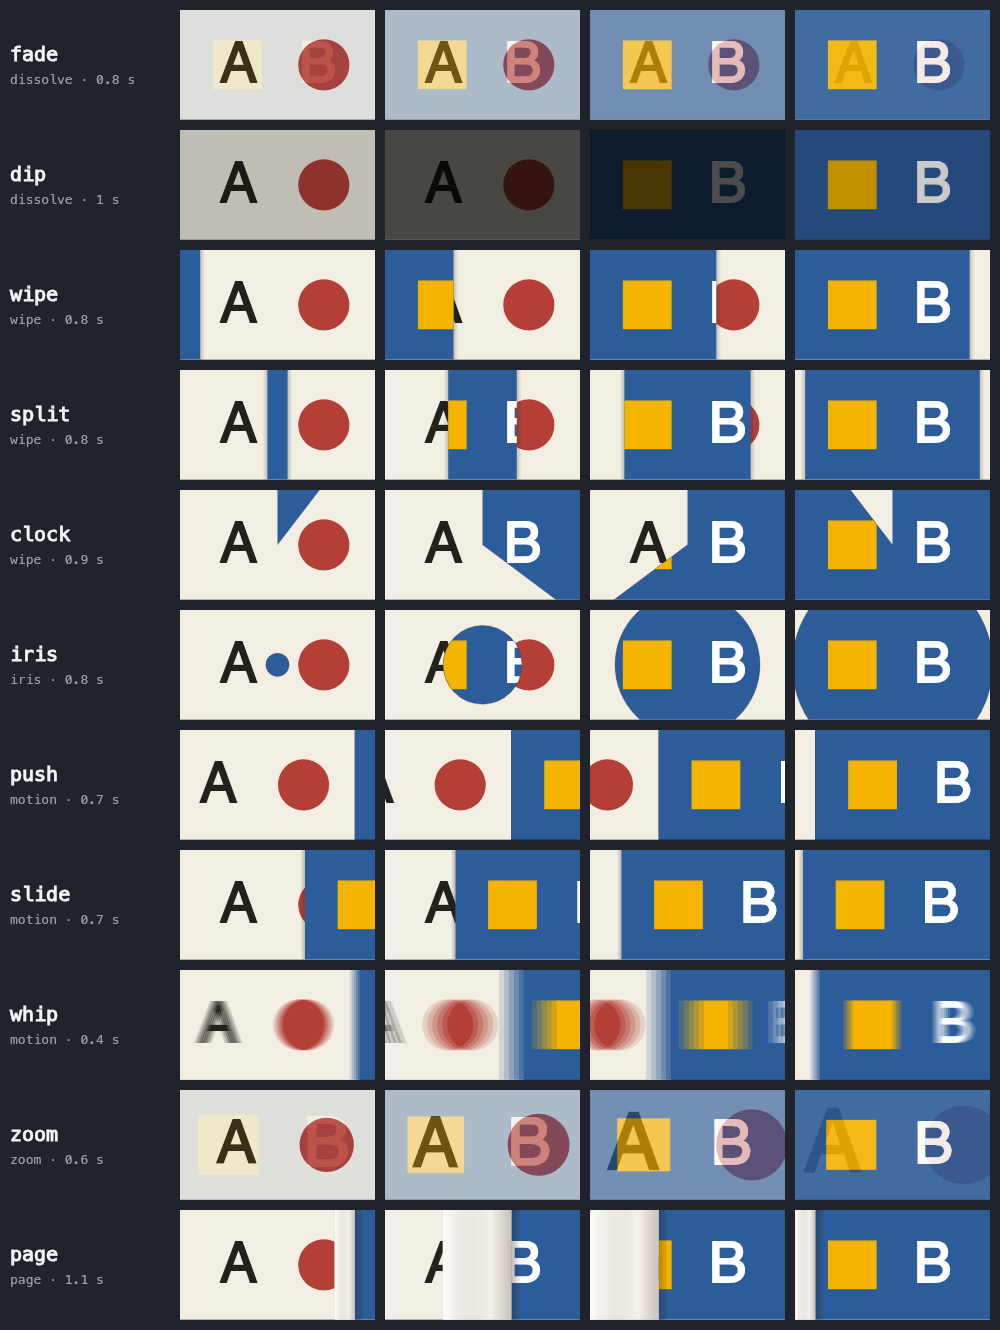
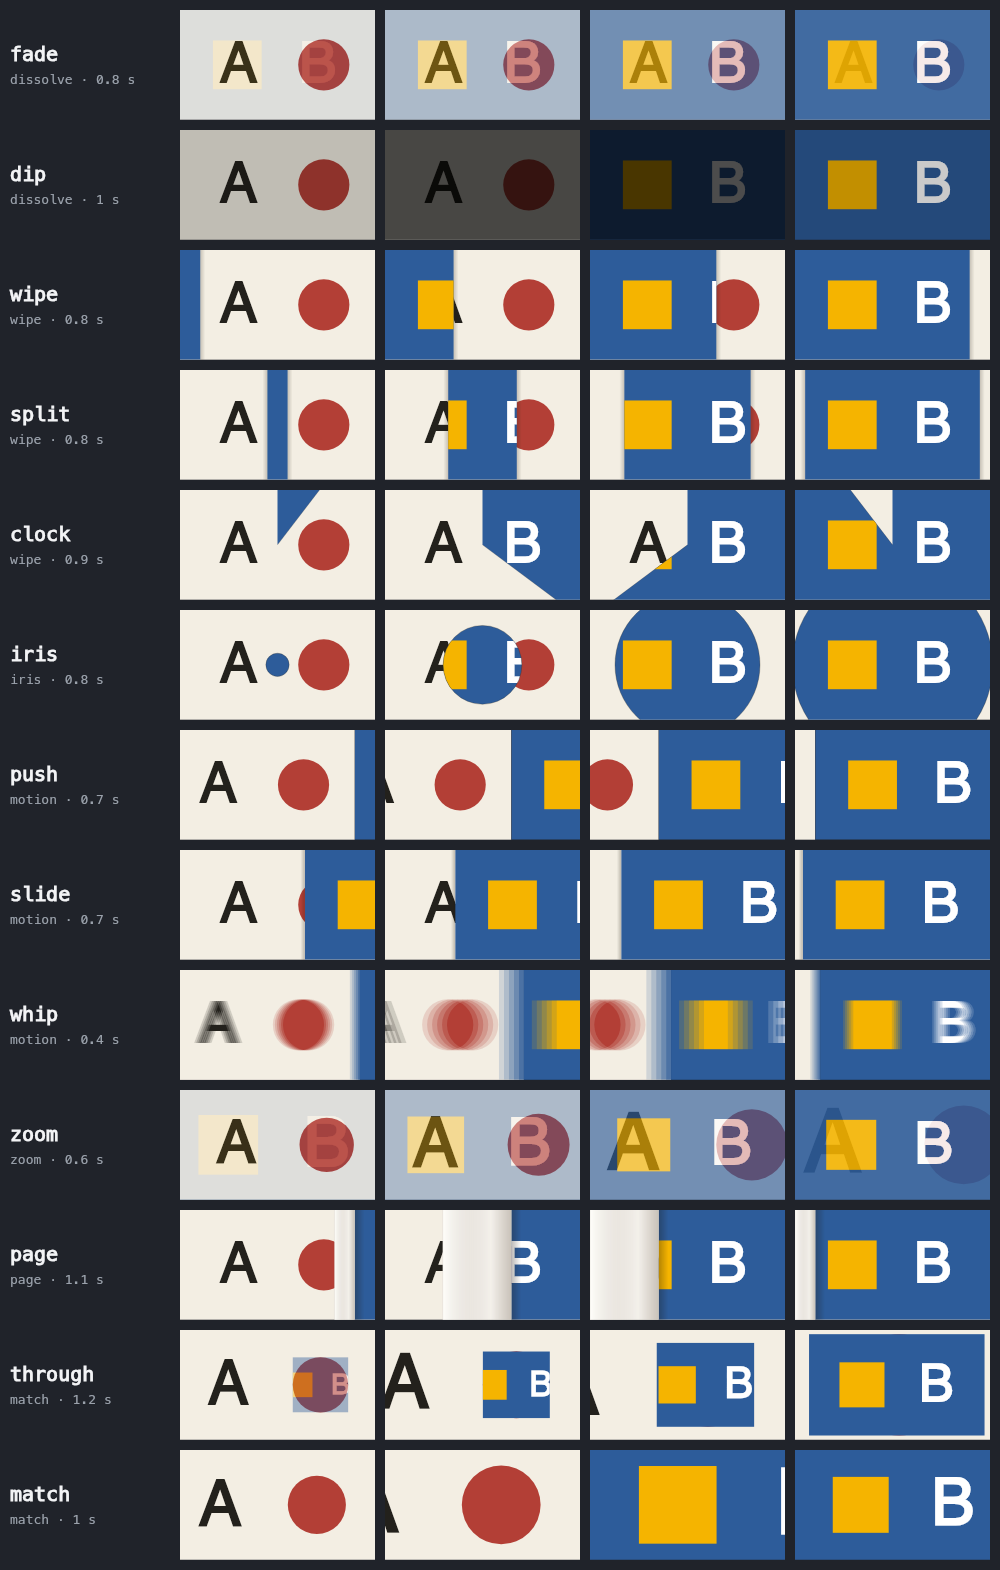
Through a thing: two match-cut transitions — through (the camera goes through a named thing in the old picture, box or round, into the new one) and match (a thing in the old picture meets the same thing in the new one, same place and size, at a dissolve); a transition may name the things it looks fo

diff --git a/types/index.d.ts b/types/index.d.ts
@@ -97,18 +97,23 @@ export interface Recipe {
 export type Watching = {kind: 'burst'; path: string; where: string; at: number; moments: number; seconds: number};
 
 /** The built-in transitions (transitions.mjs · TRANSITIONS). */
-export type TransitionName = 'cut' | 'fade' | 'dip' | 'wipe' | 'split' | 'clock' | 'iris' | 'push' | 'slide' | 'whip' | 'zoom' | 'page';
+export type TransitionName = 'cut' | 'fade' | 'dip' | 'wipe' | 'split' | 'clock' | 'iris' | 'push' | 'slide' | 'whip' | 'zoom' | 'page' | 'through' | 'match';
 /**
  * A shot's entrance: a transition's name (a kit's own too), or its name with settings — `seconds` (0.2–3),
  * `ease`, `sound` (a sound, or false for none) and the transition's own: `from` (push, slide, whip, wipe:
  * left | right | top | bottom), `line` (split: vertical | horizontal), `at` (iris, zoom: [x, y]), `color`
- * (dip: a hex colour). Left out: a fade.
+ * (dip: a hex colour), `region` (through, match: the name of a thing in the picture it leaves — required),
+ * `into` (match: the thing's name in the new picture, when it differs), `shape` (through: box | round).
+ * Left out: a fade.
  */
 export type Enter = TransitionName | (string & {}) | ({type: TransitionName | (string & {}); seconds?: number; ease?: EaseName; sound?: SoundType | false;
-  from?: 'left' | 'right' | 'top' | 'bottom'; line?: 'vertical' | 'horizontal'; at?: [number, number]; color?: string; [setting: string]: unknown});
-/** A transition's setting: one of some words, a point, a colour or a number, each with its default. */
+  from?: 'left' | 'right' | 'top' | 'bottom'; line?: 'vertical' | 'horizontal'; at?: [number, number]; color?: string;
+  region?: string; into?: string; shape?: 'box' | 'round'; [setting: string]: unknown});
+/** A transition's setting: one of some words, a point, a colour or a number, each with its default; or the name of a thing in the picture (no default: the recipe must give it; default null: it may be left out). */
 export type TransitionSetting = {oneOf: readonly string[]; default: string} | {point: true; default: readonly [number, number]}
-  | {color: true; default: string} | {number: readonly [number, number]; default: number};
+  | {color: true; default: string} | {number: readonly [number, number]; default: number} | {name: true; default?: string | null};
+/** A box on the 1600×900 frame: [x0, y0, x1, y1]. */
+export type FrameBox = readonly [number, number, number, number];
 /** What a transition's draw is given (transitions.mjs): how far (eased), the two pictures, its settings, a scratch picture, the theme. */
 export interface TransitionDraw {
   /** How far the change has come, 0..1, eased (an overshooting ease goes past 1 only where the transition allows it). */
@@ -122,6 +127,8 @@ export interface TransitionDraw {
   /** paint(c) into a scratch picture, laid over ctx at alpha: a see-through picture, drawn whole. */
   ghost(alpha: number, paint: (ctx: any) => void): void;
   theme: Record<string, unknown>;
+  /** Where the things the transition names (its `regions`) are on the frame: the leaving picture's at the change's first moment, the arriving one's at its last. */
+  boxes: Readonly<{from: Readonly<Record<string, FrameBox>>; to: Readonly<Record<string, FrameBox>>}>;
 }
 /** A transition a kit adds (kit.transitions): drawn through the same contract as the built-in ones; it must cover the whole frame at every e. */
 export interface Transition {
@@ -134,6 +141,8 @@ export interface Transition {
   /** true when an overshooting ease (back, spring) may drive it. */
   overshoot?: boolean;
   params?: Record<string, TransitionSetting>;
+  /** The things it looks for, by name, in the picture it leaves (`from`) and the one it arrives at (`to`): the film finds them once and passes their boxes to draw. */
+  regions?(p: Readonly<Record<string, unknown>>): {from?: string[]; to?: string[]};
   draw(ctx: any, args: TransitionDraw): void;
 }
 /** A built-in transition (the cut draws nothing: it is no transition at all). */

diff --git a/types/sub/transitions.d.ts b/types/sub/transitions.d.ts
@@ -1,9 +1,9 @@
 export {TRANSITIONS, TRANSITION_NAMES, transitionCatalog} from '../index.js';
-export type {TransitionName, Transition, BuiltInTransition, TransitionSetting, TransitionDraw, Enter} from '../index.js';
+export type {TransitionName, Transition, BuiltInTransition, TransitionSetting, TransitionDraw, Enter, FrameBox} from '../index.js';
 import type {Enter, BuiltInTransition, TransitionDraw} from '../index.js';
 import type {Ease} from './ease.js';
 /** A shot's entrance read from the recipe (an unknown name, key or setting refuses, naming what the transition takes). */
-export function readEntrance(enter: Enter | undefined, where: string, catalog?: Record<string, Readonly<BuiltInTransition>>): {type: string; seconds: number; lead: number; ease: Ease; sound: string | null; p: Readonly<Record<string, unknown>>; draw: ((ctx: any, args: TransitionDraw) => void) | null; at: readonly [number, number]};
+export function readEntrance(enter: Enter | undefined, where: string, catalog?: Record<string, Readonly<BuiltInTransition>>): {type: string; seconds: number; lead: number; ease: Ease; sound: string | null; p: Readonly<Record<string, unknown>>; draw: ((ctx: any, args: TransitionDraw) => void) | null; regions: ((p: Readonly<Record<string, unknown>>) => {from?: string[]; to?: string[]}) | null; at: readonly [number, number]};
 /** A hard cut. */
 export const CUT: Readonly<{type: 'cut'; seconds: 0; lead: 0; sound: null; p: Readonly<Record<string, never>>; at: readonly [number, number]}>;
 /** ghost(ctx, alpha, paint): paint into a scratch picture at ctx's scale, laid over ctx at alpha. */

diff --git a/test/types.check.ts b/test/types.check.ts
@@ -166,3 +166,12 @@ export const squint: number = Math.max(acted.anticipation, idleAt(2.1, {seed: 3}
 export const head: (t: number) => number = follows((t: number) => t * 2, .2);
 // @ts-expect-error a mood key names its mood
 export const noMood = moodAt([{at: 0}], 1);
+
+// Through a named thing: the two match transitions, and a kit's own that looks for things in the pictures.
+export const throughs: Enter[] = [{type: 'through', region: 'window'}, {type: 'through', region: 'ring', shape: 'round'}, {type: 'match', region: 'ring', into: 'loop'}];
+export const portal: Transition = {family: 'match', seconds: 1, ease: 'inOut', sound: null, params: {region: {name: true}, into: {name: true, default: null}},
+  regions: p => ({from: [String(p.region)]}), draw(ctx, {e, from, to, boxes}) { const [x0] = boxes.from.window ?? [0]; (e < .5 ? from : to)(ctx); ctx.fillRect(x0, 0, 1, 1); }};
+// @ts-expect-error a through's opening is a box or round
+export const oval: Enter = {type: 'through', region: 'ring', shape: 'oval'};
+// @ts-expect-error a name setting's default is a name or null
+export const badName: Transition = {...portal, params: {region: {name: true, default: 3}}};

diff --git a/README.md b/README.md
@@ -266,9 +266,13 @@ recipe names:
 | | `whip` | a fast push that streaks, as a camera turned quickly blurs | `from` (`right`) | 0.4 s | whoosh |
 | zoom | `zoom` | the old picture rushes forward and fades while the new one settles | `at` (the centre) | 0.6 s | whoosh |
 | page | `page` | the old picture is a page that lifts from its right edge and turns over | – | 1.1 s | slide |
+| match | `through` | the camera goes through a thing in the old picture (a window, a screen) and the new picture is what was inside it | `region` (required), `shape`: `box` · `round` (`box`) | 1.2 s | whoosh |
+| | `match` | a thing in the old picture becomes the same thing in the new one: they meet, same place, same size, at a dissolve | `region` (required), `into` (the same name) | 1 s | – |
 
 ```json
 "enter": "push"
+"enter": {"type": "through", "region": "window"}              through the old picture's window into the new one
+"enter": {"type": "match", "region": "ring", "into": "loop"}  the old ring becomes the new picture's loop
 "enter": {"type": "push", "from": "left", "seconds": 0.5}
 "enter": {"type": "dip", "color": "#ffffff"}                  a dip to white
 "enter": {"type": "whip", "sound": false}                     no sound
@@ -280,14 +284,27 @@ name, or `false`). An ease that goes past the end (`back`, `spring`) is refused 
 would show — only `slide` takes one. An unknown name, key or setting refuses, naming what the transition
 takes: `enter has unsupported key at (a push takes seconds, ease, sound, from)`.
 
+**Through a thing.** `through` and `match` go through something drawn in the pictures, named the way a
+kit names what it draws (`regionsAt(t) → [{box, path, label, name}]`, the names a push note frames). The
+film finds each named thing once, when it is built: in the picture the change leaves at its first moment, in
+the one it arrives at at its last — so every frame of the change is still a pure function of time, and a name
+the picture does not have refuses then, naming the ones it has: `stage loop: the through looks for "window" in
+the picture it leaves, and nothing in the picture is called "window" at 12.40 s; the names there are screen,
+ring`. `through` zooms about the one point that leaves still while the new picture, fitted inside the
+opening, grows to fill the frame; near the end the opening widens to the frame's edges. `match` pushes the old
+picture in on its thing and pulls the new one back from its own, so the two meet half way at a quick
+dissolve — at least 1.3 times the larger one's size, and larger when they are far apart, because a camera
+that zooms only in must zoom far enough to carry its thing to the meeting point without uncovering an edge.
+Both end on the new picture exactly.
+
 **A kit adds its own**, as Final Cut takes Motion templates and Premiere takes `.mogrt` files, and a recipe
 names it like a built-in one. Every transition — built in or not — draws through one contract:
 
 ```js
 const stageKit = {name: 'stage', transitions: {curtain: {
   family: 'theatre', seconds: 1.2, ease: 'inOut', sound: 'whoosh',
-  params: {color: {color: true, default: '#7a1020'}},          // settings: {oneOf}, {point}, {color} or {number: [min, max]}, each with a default
-  draw(ctx, {e, from, to, p, ghost, theme}) {                 // e: 0..1, eased; from(c) / to(c) draw the two pictures
+  params: {color: {color: true, default: '#7a1020'}},          // settings: {oneOf}, {point}, {color} or {number: [min, max]}, each with a default; or {name: true}
+  draw(ctx, {e, from, to, p, ghost, theme, boxes}) {          // e: 0..1, eased; from(c) / to(c) draw the two pictures
     (e < .5 ? from : to)(ctx);                                // cover the whole frame at every e
     const closed = 1 - Math.abs(1 - 2 * e);
     ctx.fillStyle = p.color; ctx.fillRect(0, 0, 800 * closed, 900); ctx.fillRect(1600 - 800 * closed, 0, 800 * closed, 900);
@@ -296,7 +313,10 @@ const stageKit = {name: 'stage', transitions: {curtain: {
 ```
 
 `ghost(alpha, paint)` paints a picture whole into a scratch picture and lays it over at that alpha (a
-see-through picture must be drawn whole: canvas alpha on its parts shows the seams). A kit's transition
+see-through picture must be drawn whole: canvas alpha on its parts shows the seams). A transition that goes
+through things says which with `regions: p => ({from: [p.region], to: [p.into]})` and reads where they are in
+`boxes.from[name]` / `boxes.to[name]` (`[x0, y0, x1, y1]` on the frame); a `{name: true}` setting is the
+recipe's name for one (no default: the recipe must give it). A kit's transition
 may not take a built-in name or another kit's. `transitionSheet({catalog})` draws any collection on one
 PNG (`node examples/transitions.mjs` wrote the picture above), and the studio shows it under
 **Transitions**.

diff --git a/CHANGELOG.md b/CHANGELOG.md
@@ -2,6 +2,22 @@
 
 ## Unreleased
 
+### Through a thing: match cuts
+- **`through`** (family `match`): the camera goes through a thing in the old picture — a window, a screen,
+  a ring (`shape: "round"`) — and the new picture is what was inside it: fitted in the opening, zoomed about
+  the one point that zoom leaves still until it fills the frame, the opening widening to the frame's edges at
+  the end. `"enter": {"type": "through", "region": "window"}`.
+- **`match`**: a thing in the old picture becomes the same thing in the new one (`region`, and `into` when the
+  new picture names it differently). The old picture pushes in on its thing, the new one pulls back from its
+  own, and they meet half way — same place, same size — at a quick dissolve. Both cameras only zoom in, so the
+  frame is always covered: things far apart meet larger.
+- **The contract**: a transition may say which things it looks for, `regions: p => ({from?, to?})`, and
+  reads them in `draw(ctx, {…, boxes})`. The film finds each one once, when it is built (the leaving
+  picture's at the change's first moment, the arriving one's at its last), so a frame stays a pure function of
+  time; a name the picture does not have, or a thing off the frame, refuses, naming the names there are. A
+  setting may be `{name: true}` (required) or `{name: true, default: null}`.
+- `docs/transitions.png` redrawn with the two new rows.
+
 ### Acting: changes, not swaps
 - **`footprint-storyreel/acting`**: `moodAt(keys, t)` acts a mood change the way an animator times a
   reaction — `anticipation` (the eyes close over the 0.1 s before the change and open over the 0.08 s after,
